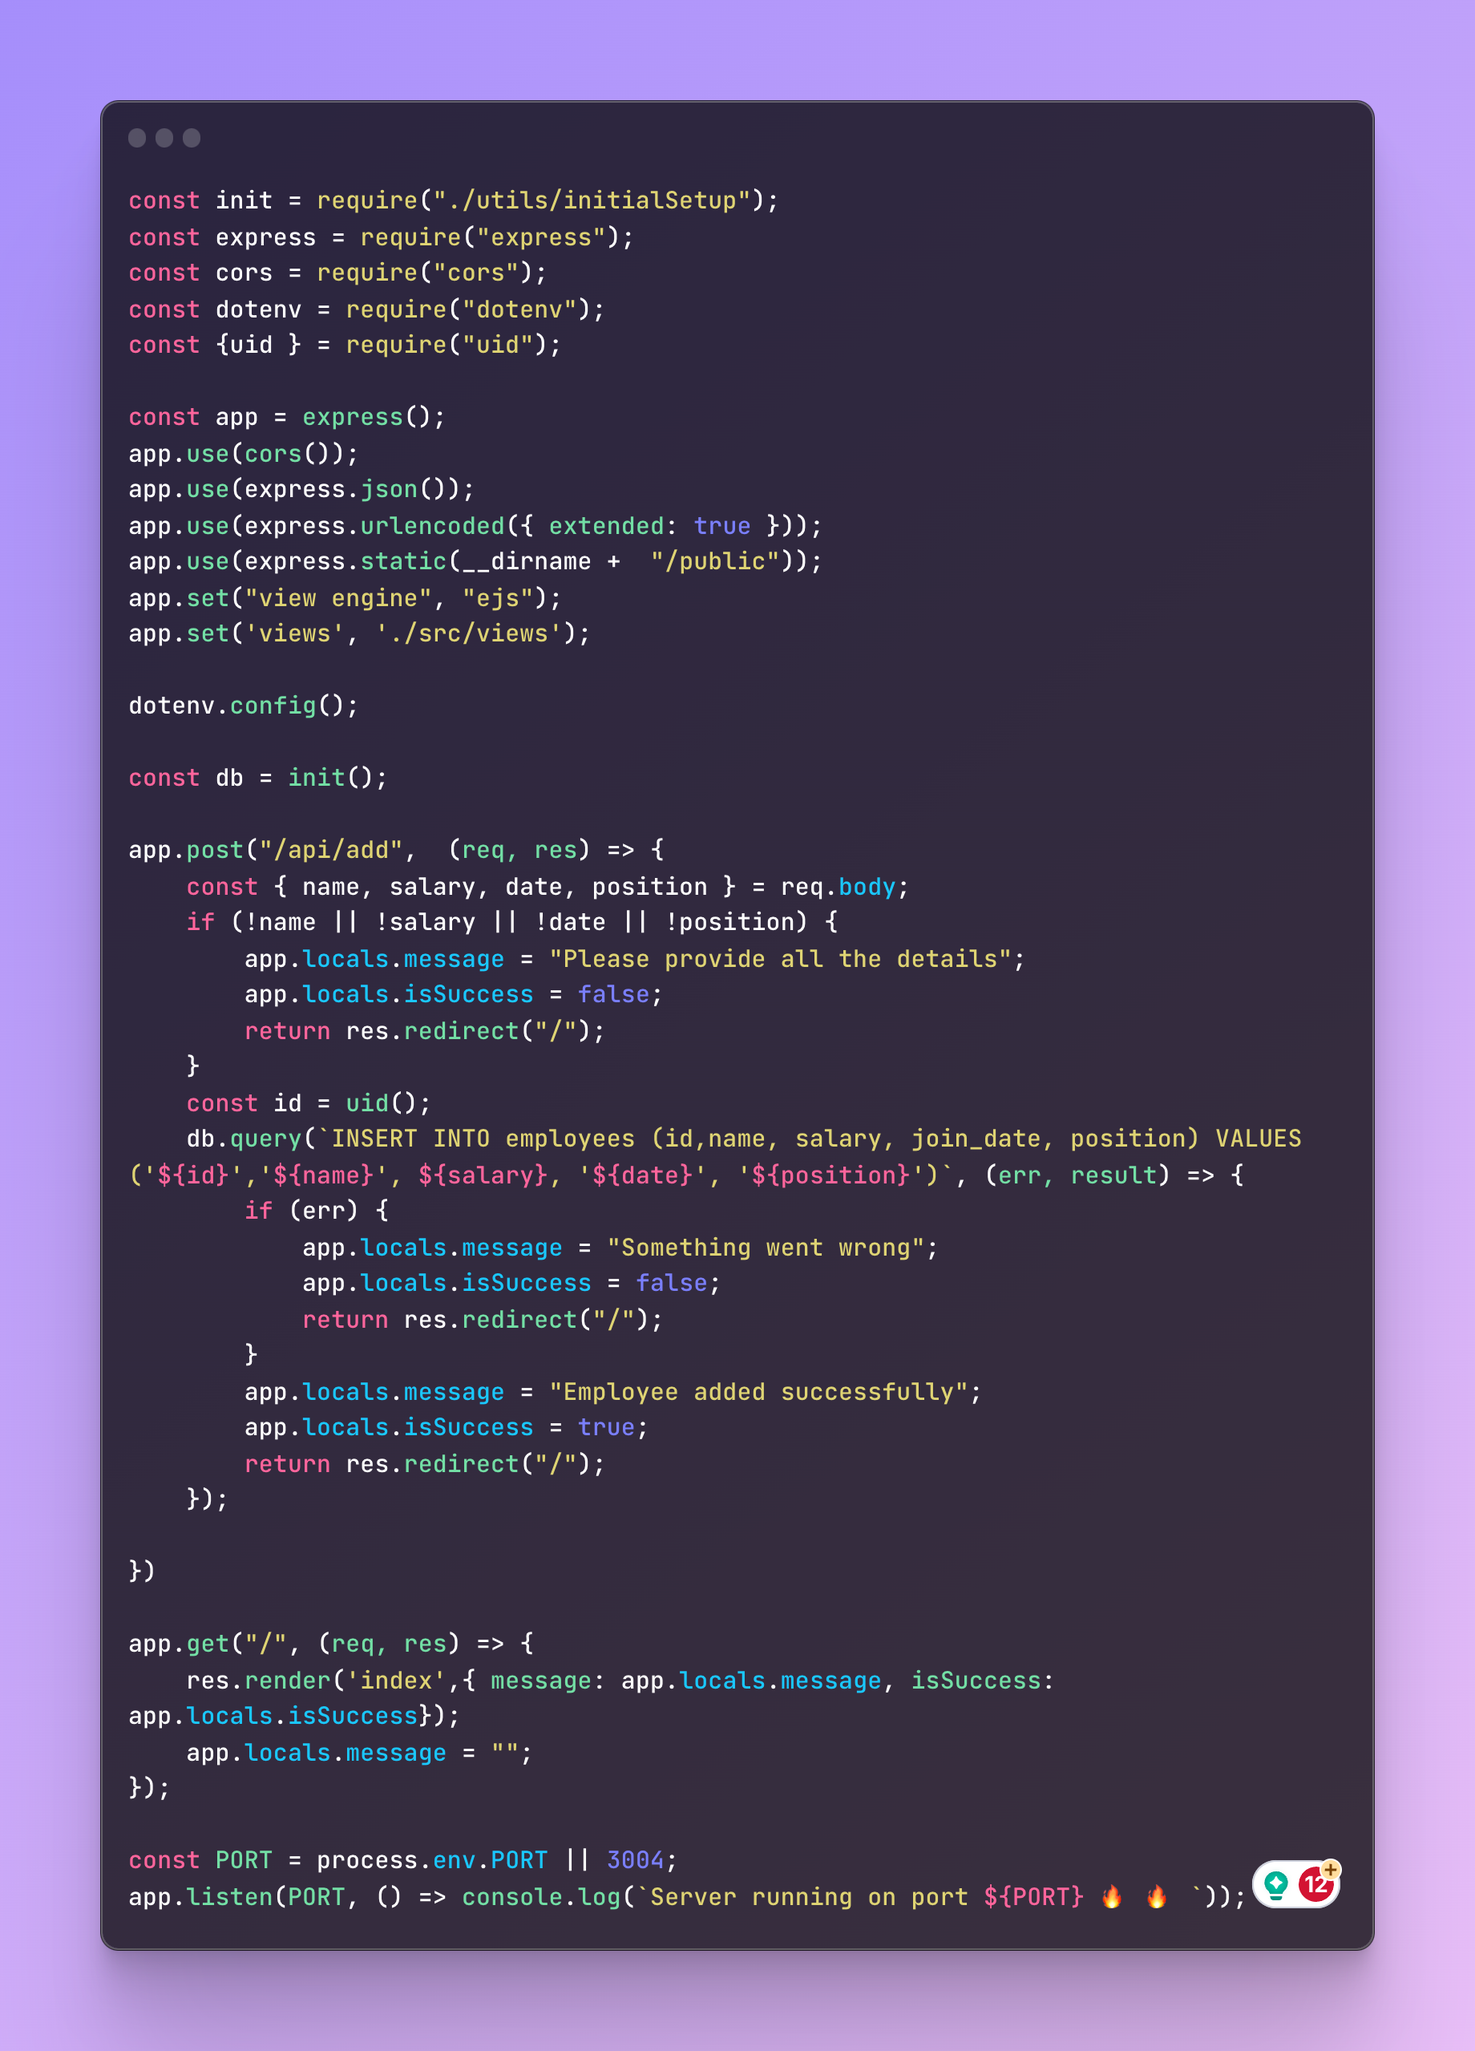
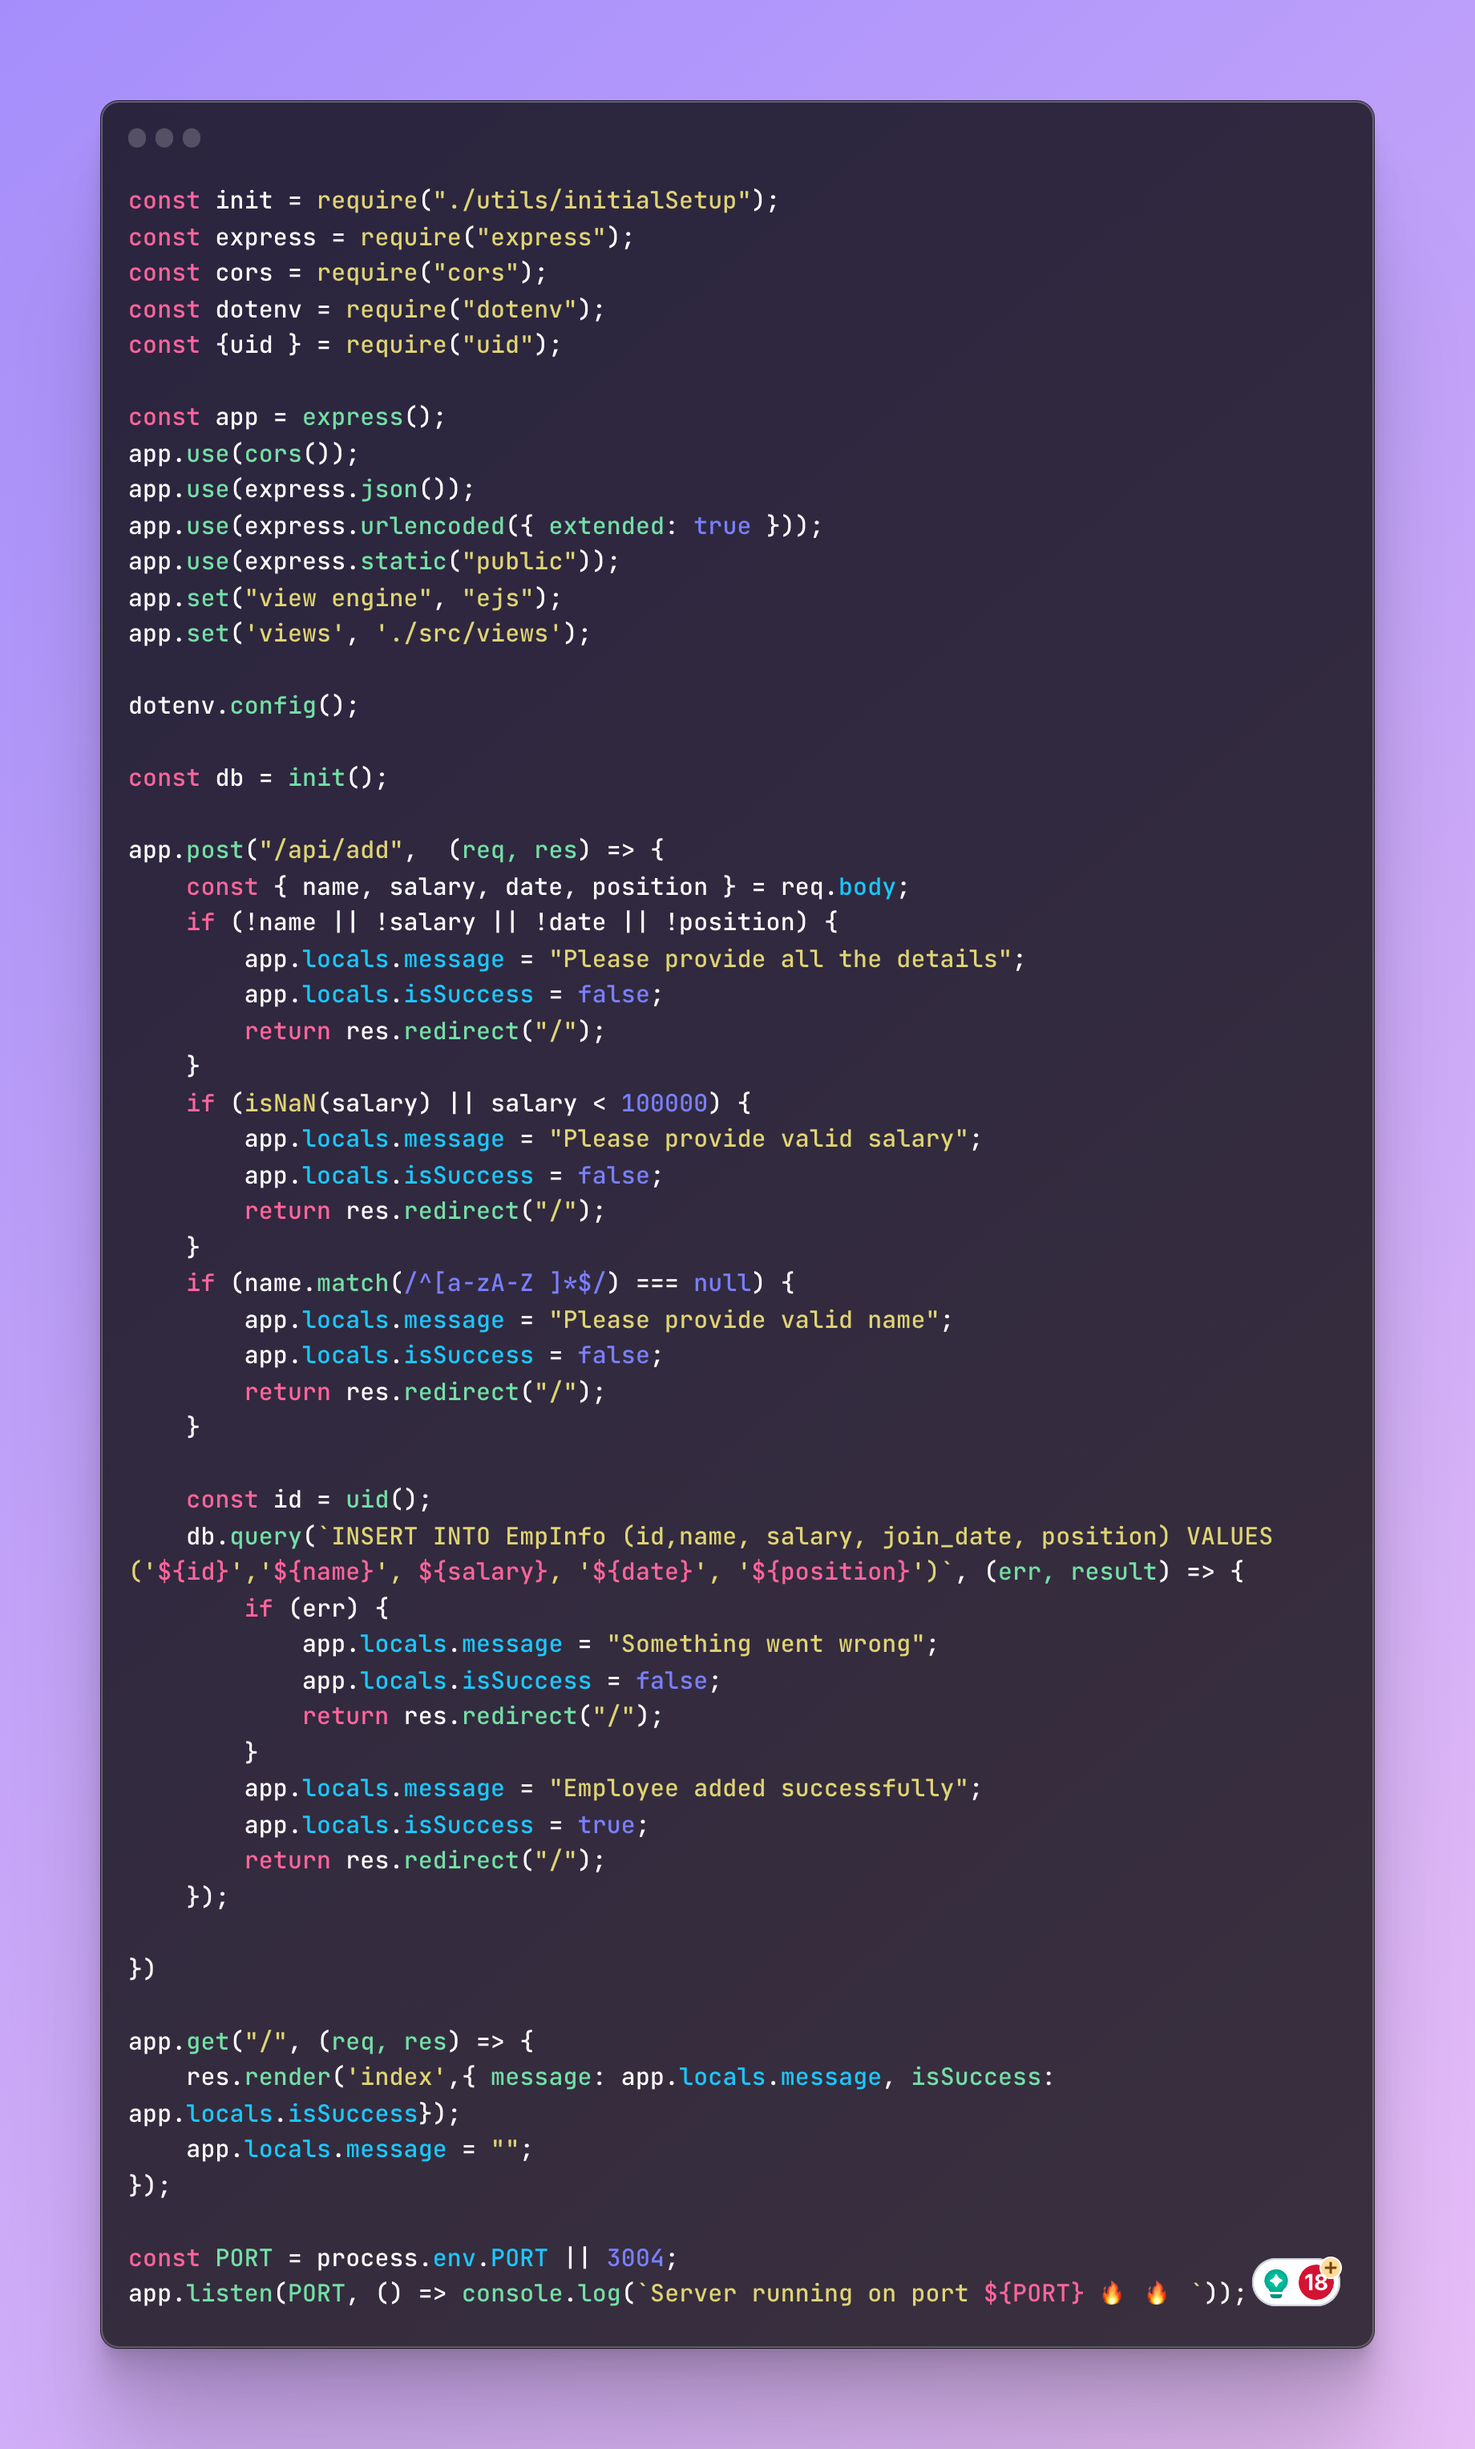
Added MetaTags and Validation

diff --git a/src/index.js b/src/index.js
@@ -23,8 +23,19 @@ app.post("/api/add",  (req, res) => {
         app.locals.isSuccess = false;
         return res.redirect("/");
     }
+    if (isNaN(salary) || salary < 100000) {
+        app.locals.message = "Please provide valid salary";
+        app.locals.isSuccess = false;
+        return res.redirect("/");
+    }
+    if (name.match(/^[a-zA-Z ]*$/) === null) { 
+        app.locals.message = "Please provide valid name";
+        app.locals.isSuccess = false;
+        return res.redirect("/");
+    }
+
     const id = uid();
-    db.query(`INSERT INTO employees (id,name, salary, join_date, position) VALUES ('${id}','${name}', ${salary}, '${date}', '${position}')`, (err, result) => { 
+    db.query(`INSERT INTO EmpInfo (id,name, salary, join_date, position) VALUES ('${id}','${name}', ${salary}, '${date}', '${position}')`, (err, result) => { 
         if (err) {
             app.locals.message = "Something went wrong";
             app.locals.isSuccess = false;

diff --git a/src/utils/initialSetup.js b/src/utils/initialSetup.js
@@ -8,17 +8,12 @@ const init = () => {
         password: process.env.DB_PASSWORD,
         database: process.env.DB_NAME
     });
-
     connection.connect((err) => {
         if (err) throw err;
         console.log('Connected!');
     });
-    connection.query(`use ${process.env.DB_NAME}`, (err, result) => {
-        if (err) throw err;
-        console.log("Database selected");
-    });
     // Create table
-    connection.query("CREATE TABLE IF NOT EXISTS employees (id VARCHAR(255), name VARCHAR(255), salary INT(10), join_date DATE, position VARCHAR(255))", (err, result) => {
+    connection.query("CREATE TABLE IF NOT EXISTS EmpInfo (id VARCHAR(255), name VARCHAR(255), salary INT(10), join_date DATE, position VARCHAR(255))", (err, result) => {
         if (err) throw err;
         console.log("Table created");
     });

diff --git a/README.md b/README.md
@@ -1,9 +1,11 @@
 <p align="center">
   <img src="./media/gls.jpeg" />
 </p>
+
 ## SEP Topic 81
 Install nodejs and npm with respective version 8.10 and 3.5.2 to perform following server side scripting problem.
 Install the NPM package ‘mysql’ and create one db with table name “EmpInfo” having 5 records of Employee information.
+
 ### Mentor: Prof. Nirav Suthar
 
 ### TEAM
@@ -24,6 +26,7 @@ Node.js is a powerful, open-source, cross-platform JavaScript runtime environmen
 One of the key features of Node.js is its package ecosystem, managed by npm (Node Package Manager). npm is the world's largest software registry, housing over a million packages of reusable code. It allows developers to easily install, share, and manage dependencies for their projects. With npm, developers can quickly integrate libraries, frameworks, and tools into their applications, significantly speeding up the development process.
 
 Node.js is widely used in both frontend and backend development, powering various types of applications such as web servers, APIs, microservices, and command-line tools. Its lightweight, event-driven architecture makes it ideal for building real-time applications, streaming services, and IoT (Internet of Things) devices. Combined with npm's extensive ecosystem, Node.js empowers developers to create robust, scalable, and feature-rich applications with JavaScript, making it a popular choice in the development community.
+
 ### Installing Nodejs and npm
 1. Linux 
 - We can install nodejs and npm using the following commands:
@@ -107,7 +110,7 @@ Node.js is widely used in both frontend and backend development, powering variou
   3. 500 - There was an error while adding the employee to the database.
 
 ### Output 
-![Output](./media/output.gif)
+[![Output](./media/output.gif)](https://tiny-tuna-tights.cyclic.app/)
 
 ### Source Code
 
